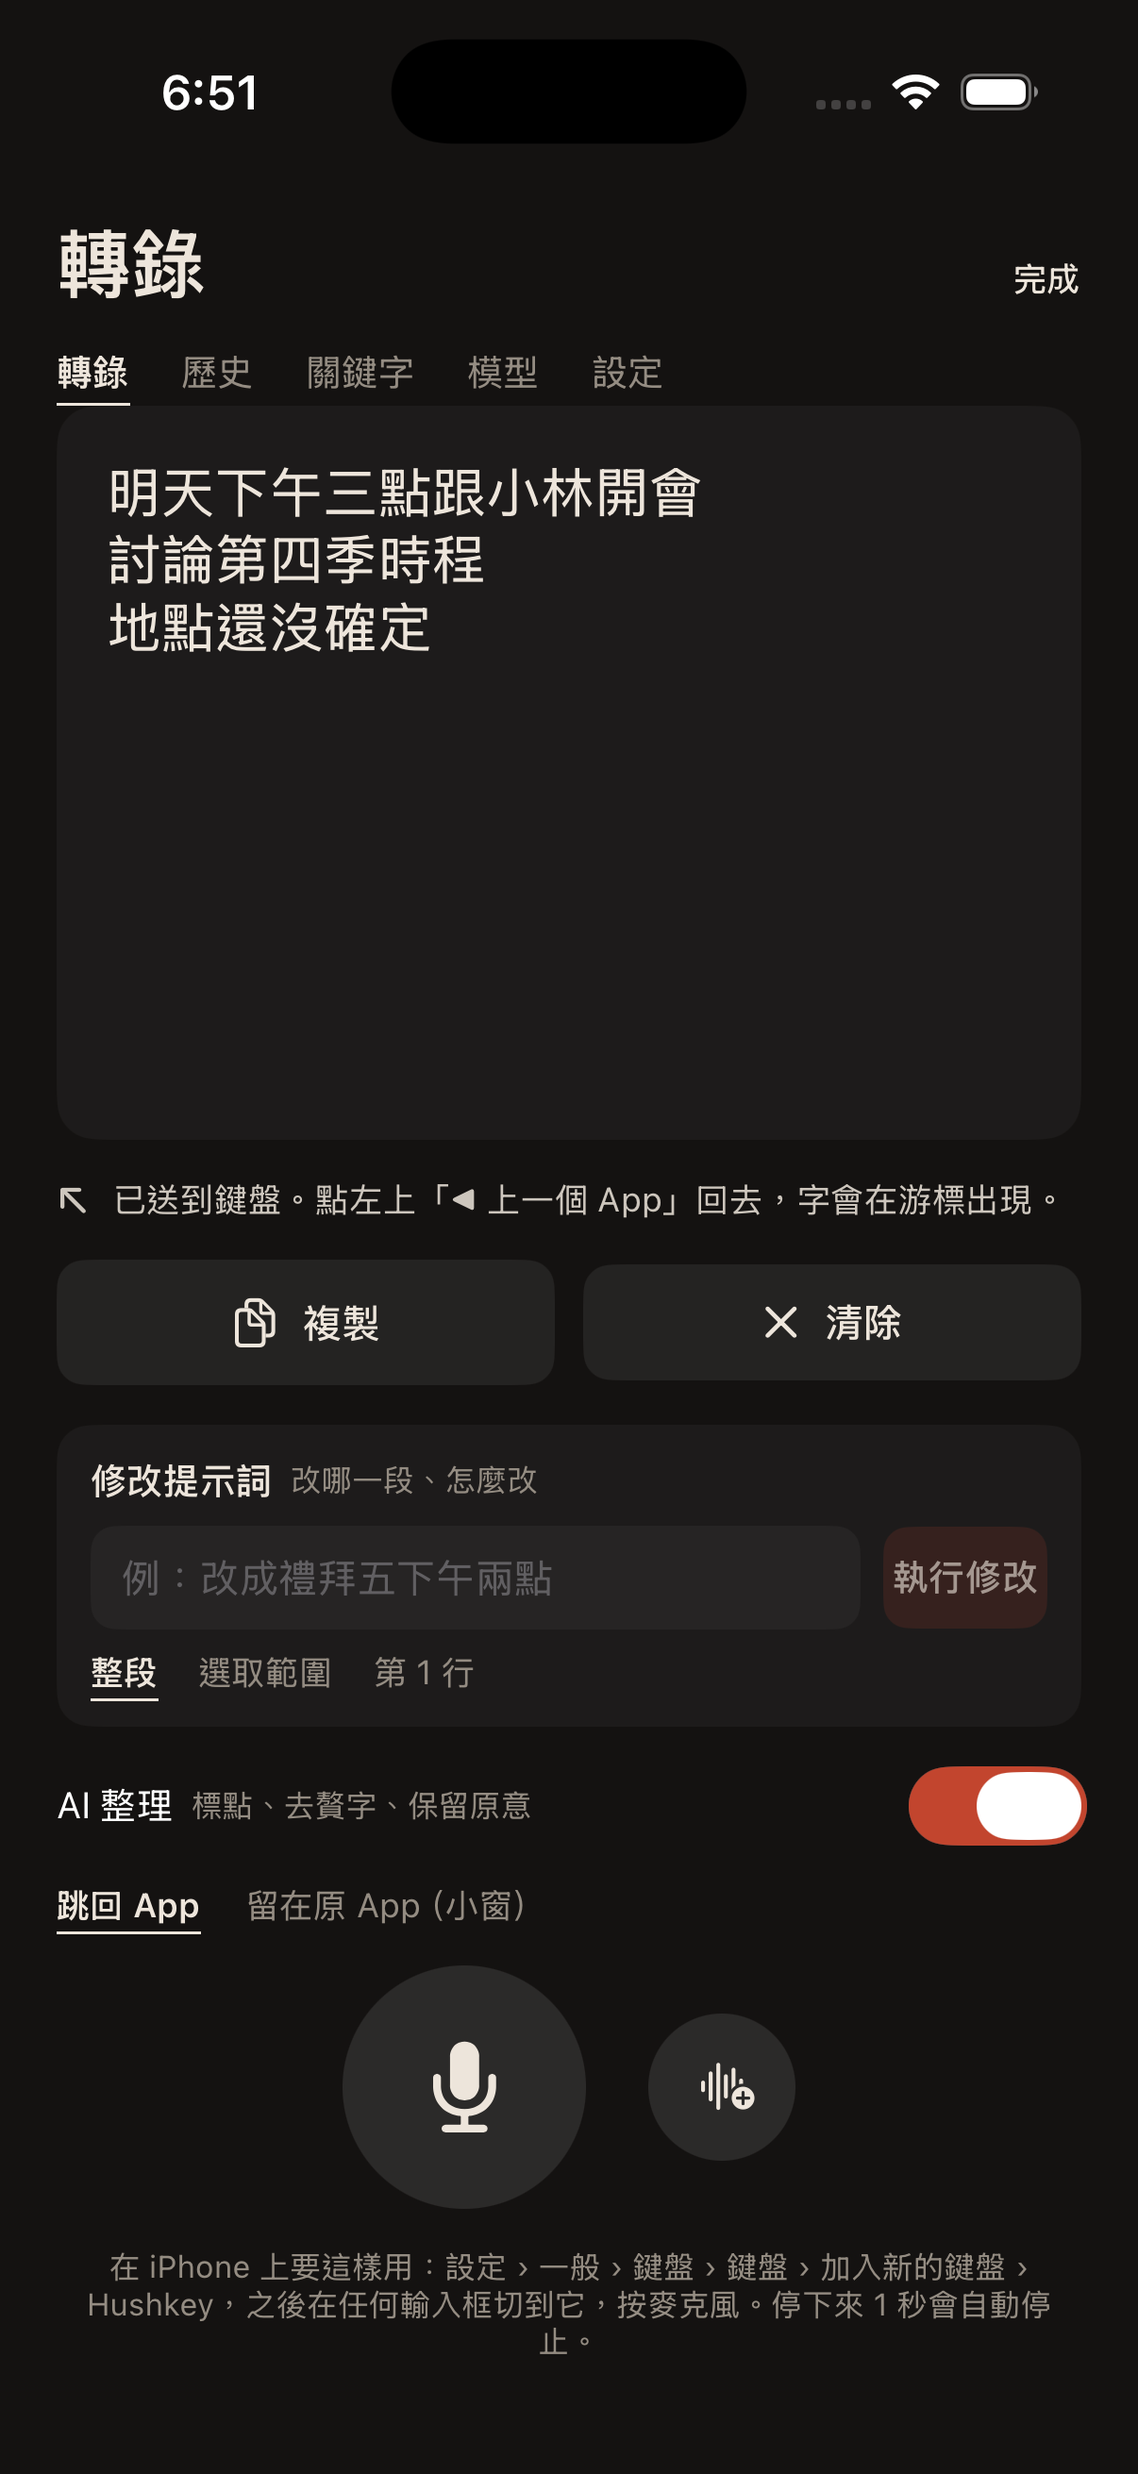
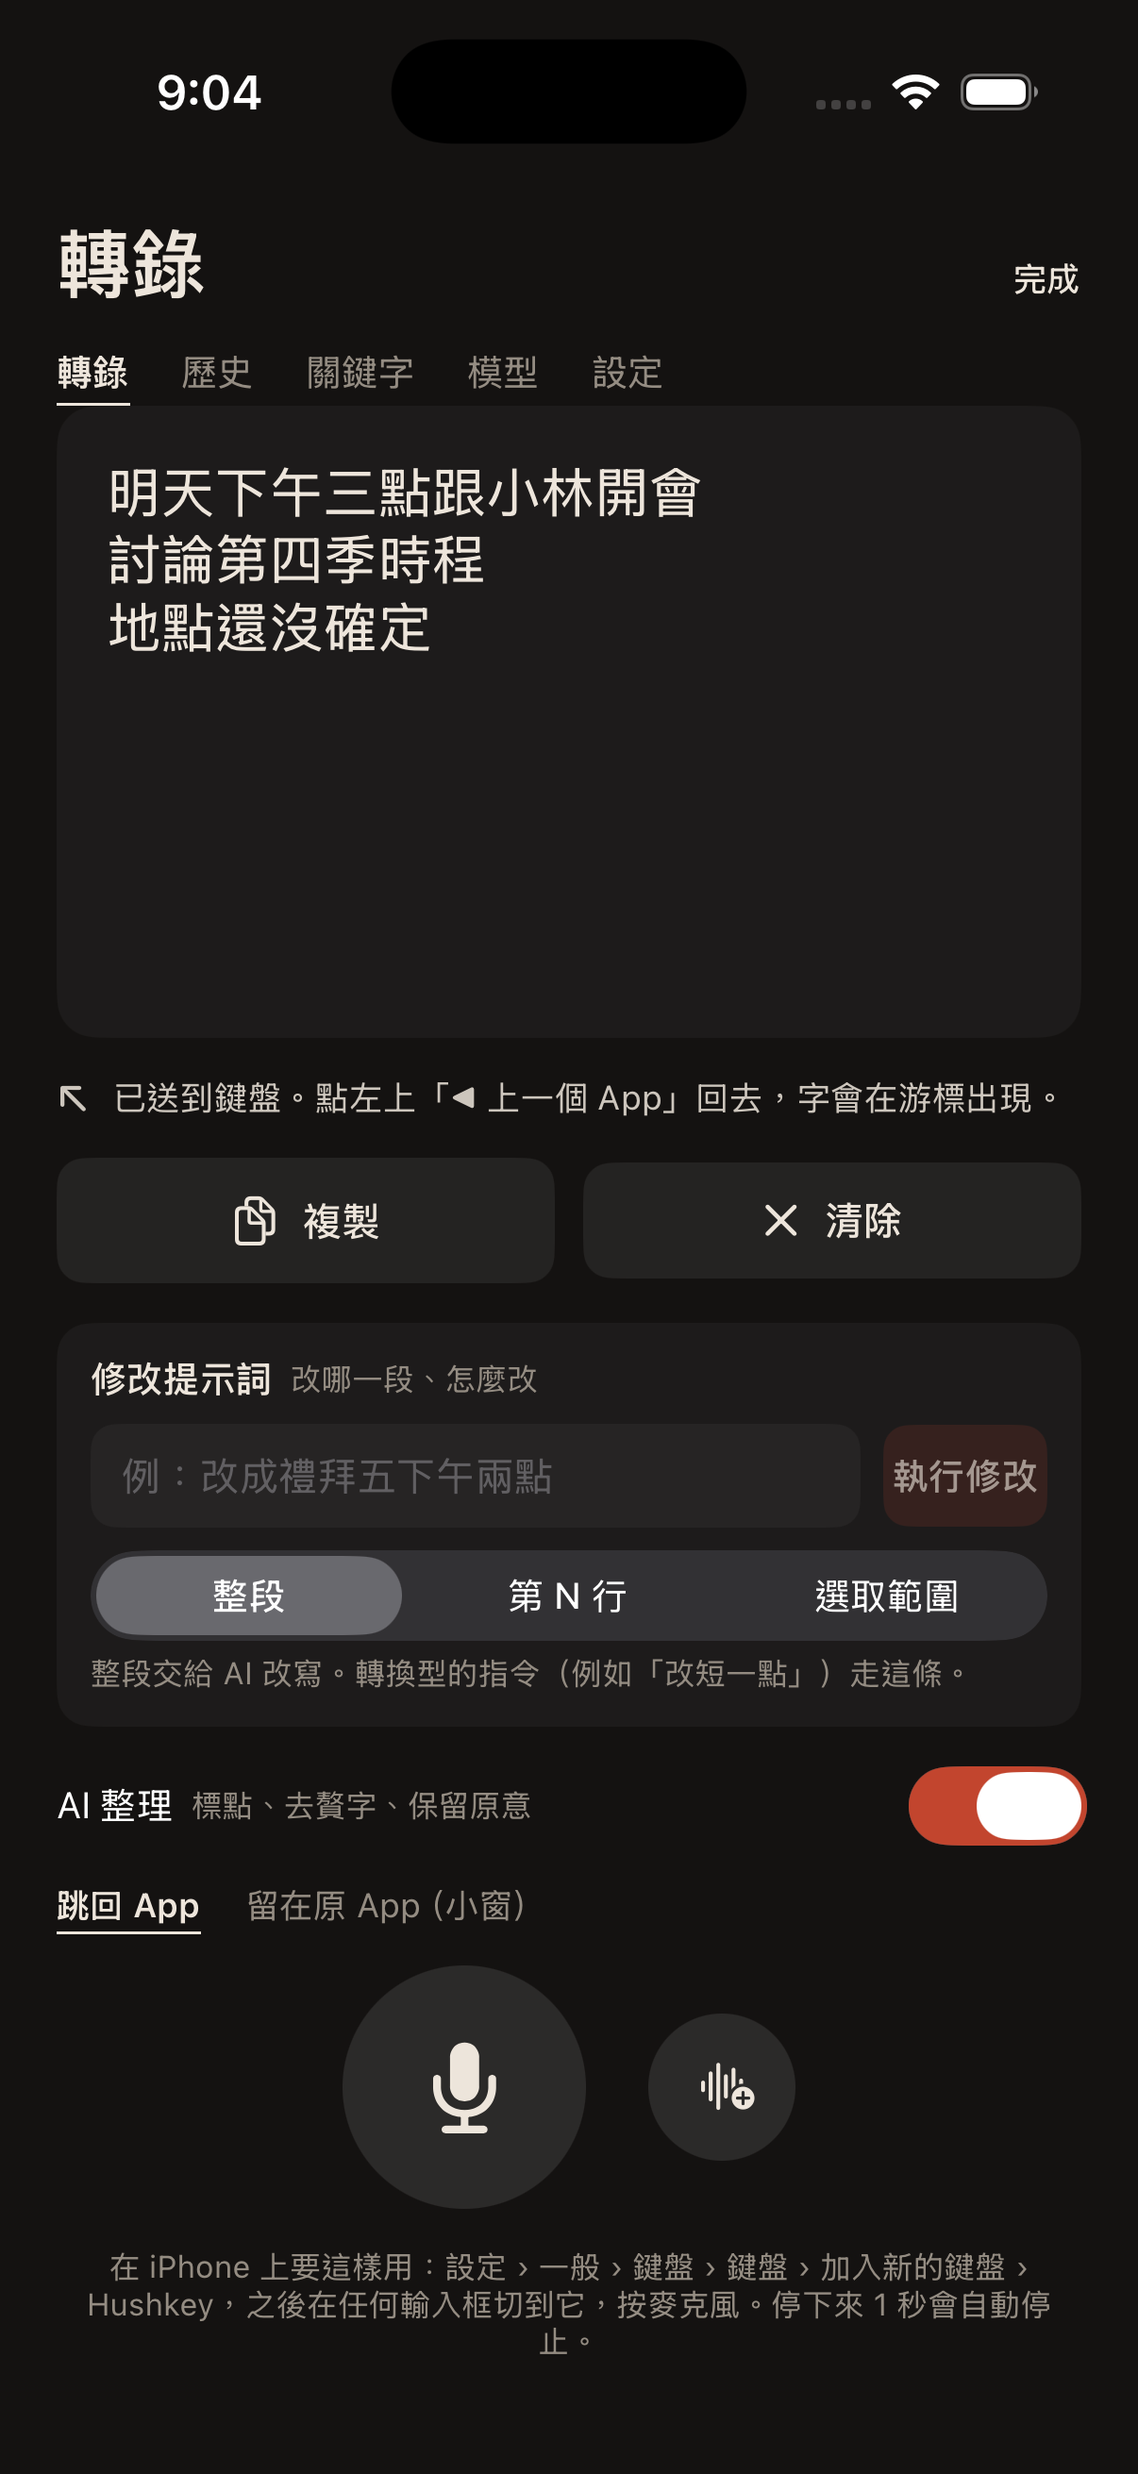
test(edit): 區域改 SegmentedControl，並把「不同區域→不同輸出」變成回歸案例
- 三段式 Picker（整段／第 N 行／選取範圍）；行號不進 selection 識別值，
  stepper 不會重建 picker。SelectableTranscript 拆成自己的檔案。
- edit_batch 支援 \n 轉義，多行原文才寫得進逐行的 TSV。
- tests/edit_expected.tsv 11 → 15 筆：同指令不同區域 2 筆、同區域不同指令 2 筆；
  verify.sh 的門檻改成 === 15/15 right。
- 實跑：=== 15/15 changed / === 15/15 right。

diff --git a/ios_app/Sources/App/PromptEditPanel.swift b/ios_app/Sources/App/PromptEditPanel.swift
@@ -1,99 +1,4 @@
 import SwiftUI
-import UIKit
-
-/// The 轉錄 page's transcript, made selectable so a region can be named.
-///
-/// SwiftUI's `Text` + `.textSelection(.enabled)` lets the user select and copy,
-/// but gives the app no way to read WHAT was selected -- and 「目前選取範圍」 is
-/// one of the three regions the 修改提示詞 button offers. A `UITextView` reports
-/// its range, so the region the user pointed at is the region the core is
-/// handed instead of a guess made from the whole sentence.
-///
-/// Not editable: the text on this page is the sentence the app produced. The
-/// user changes it with a 修改提示詞, which is the whole point of the panel
-/// below -- an editable field here would be a second, silent way to edit that
-/// bypasses the model and never reaches the history.
-struct SelectableTranscript: UIViewRepresentable {
-    let text: String
-    let placeholder: String
-    @Binding var selection: NSRange
-
-    func makeUIView(context: Context) -> GrowingTextView {
-        let view = GrowingTextView()
-        view.isEditable = false
-        view.isSelectable = true
-        view.isScrollEnabled = false
-        view.backgroundColor = .clear
-        view.textContainerInset = .zero
-        view.textContainer.lineFragmentPadding = 0
-        view.adjustsFontForContentSizeCategory = true
-        view.delegate = context.coordinator
-        view.setContentCompressionResistancePriority(.defaultLow, for: .horizontal)
-        return view
-    }
-
-    func updateUIView(_ view: GrowingTextView, context: Context) {
-        context.coordinator.parent = self
-        let shown = text.isEmpty ? placeholder : text
-        if view.text != shown {
-            view.text = shown
-            // The old range belongs to a sentence that is no longer there.
-            view.selectedRange = NSRange(location: 0, length: 0)
-            selection = view.selectedRange
-            view.invalidateIntrinsicContentSize()
-        }
-        view.font = Self.font
-        view.textColor = text.isEmpty ? UIColor(Palette.dim) : UIColor(Palette.ink)
-    }
-
-    func makeCoordinator() -> Coordinator { Coordinator(parent: self) }
-
-    /// The Mac's transcript face, one size down: serif, because the sentence is
-    /// something to read rather than a form field.
-    static let font: UIFont = {
-        let base = UIFont.systemFont(ofSize: 20)
-        guard let descriptor = base.fontDescriptor.withDesign(.serif) else { return base }
-        return UIFont(descriptor: descriptor, size: 20)
-    }()
-
-    final class Coordinator: NSObject, UITextViewDelegate {
-        var parent: SelectableTranscript
-
-        init(parent: SelectableTranscript) {
-            self.parent = parent
-        }
-
-        func textViewDidChangeSelection(_ textView: UITextView) {
-            // Reported on every caret move, so a tap that only places the caret
-            // (length 0) clears the region rather than leaving a stale one.
-            guard parent.selection != textView.selectedRange else { return }
-            parent.selection = textView.selectedRange
-        }
-    }
-}
-
-/// A `UITextView` that reports its own height.
-///
-/// `isScrollEnabled = false` alone does not give a usable intrinsic size inside
-/// a SwiftUI `ScrollView` on every iOS version; the width is only known after
-/// layout, so the size is recomputed when it changes.
-final class GrowingTextView: UITextView {
-    private var lastWidth: CGFloat = 0
-
-    override var intrinsicContentSize: CGSize {
-        let width = bounds.width > 0 ? bounds.width : UIScreen.main.bounds.width
-        let fitted = sizeThatFits(CGSize(width: width, height: .greatestFiniteMagnitude))
-        return CGSize(width: UIView.noIntrinsicMetric, height: ceil(fitted.height))
-    }
-
-    override func layoutSubviews() {
-        super.layoutSubviews()
-        if abs(bounds.width - lastWidth) > 0.5 {
-            lastWidth = bounds.width
-            invalidateIntrinsicContentSize()
-        }
-    }
-}
 
 /// The 修改提示詞 panel: the instruction, the region, and one button.
 ///
@@ -111,11 +16,25 @@ struct PromptEditPanel: View {
 
     @StateObject private var runner = PromptEditRunner()
     @State private var instruction = ""
-    @State private var region: PromptEditRegion = .whole
+    @State private var kind: RegionKind = .whole
     @State private var line = 1
     @State private var result: String?
 
     private var lines: [String] { PromptEdit.lines(of: text) }
+
+    /// The three segments. The line number rides beside this, not inside it.
+    private enum RegionKind: Hashable { case whole, line, selection }
+
+    /// What is handed to the core. The line case clamps, so a stepper that ran
+    /// past the end can never produce a "第 9 行" for a three-line sentence --
+    /// which the core would read as a position it cannot find.
+    private var region: PromptEditRegion {
+        switch kind {
+        case .whole: return .whole
+        case .line: return .line(max(1, min(line, max(1, lines.count))))
+        case .selection: return .selection
+        }
+    }
 
     var body: some View {
         VStack(alignment: .leading, spacing: 8) {
@@ -188,21 +107,33 @@ struct PromptEditPanel: View {
             // meaningless. The instruction is the user's and stays.
             line = 1
             result = nil
-            if region == .selection { region = .whole }
+            if kind == .selection { kind = .whole }
         }
     }
 
-    /// 整段 / 選取範圍 / 第 N 行, as flat words with the current one underlined --
-    /// the same shape as the mode switch, rather than a third kind of control on
-    /// one screen.
+    /// 整段 / 第 N 行 / 選取範圍, as a segmented control.
+    ///
+    /// A `Picker` rather than three custom buttons: these are mutually exclusive
+    /// options, which is what the control means. The line number is deliberately
+    /// NOT part of the selection's identity -- otherwise every step of the
+    /// stepper would rebuild the picker and the segment would flicker.
     private var regionPicker: some View {
         VStack(alignment: .leading, spacing: 6) {
-            HStack(spacing: 14) {
-                regionButton(.whole)
-                regionButton(.selection)
-                regionButton(.line(max(1, min(line, max(1, lines.count)))))
+            Picker("區域", selection: $kind) {
+                Text("整段").tag(RegionKind.whole)
+                Text("第 N 行").tag(RegionKind.line)
+                Text("選取範圍").tag(RegionKind.selection)
             }
-            if case .line = region {
+            .pickerStyle(.segmented)
+            .labelsHidden()
+
+            switch kind {
+            case .whole:
+                Text("整段交給 AI 改寫。轉換型的指令（例如「改短一點」）走這條。")
+                    .font(.system(size: 11))
+                    .foregroundStyle(Palette.dim)
+                    .fixedSize(horizontal: false, vertical: true)
+            case .line:
                 HStack(spacing: 10) {
                     stepButton("minus") { line = max(1, line - 1) }
                     Text(linePreview)
@@ -212,43 +143,14 @@ struct PromptEditPanel: View {
                         .frame(maxWidth: .infinity, alignment: .leading)
                     stepButton("plus") { line = min(max(1, lines.count), line + 1) }
                 }
-            } else if region == .selection {
+            case .selection:
                 Text(selectionText)
                     .font(.system(size: 11))
                     .foregroundStyle(Palette.dim)
-                    .lineLimit(1)
+                    .lineLimit(2)
                     .fixedSize(horizontal: false, vertical: true)
             }
         }
-    }
-
-    private func regionButton(_ target: PromptEditRegion) -> some View {
-        // The line button carries the live number, so its identity changes as
-        // the stepper moves; comparing by case keeps the underline steady.
-        let active: Bool
-        switch (region, target) {
-        case (.whole, .whole), (.selection, .selection): active = true
-        case (.line, .line): active = true
-        default: active = false
-        }
-        return Button {
-            switch target {
-            case .whole: region = .whole
-            case .selection: region = .selection
-            case .line: region = .line(max(1, min(line, max(1, lines.count))))
-            }
-        } label: {
-            Text(target.title)
-                .font(.system(size: 12, weight: active ? .semibold : .regular))
-                .foregroundStyle(active ? Palette.ink : Palette.dim)
-                .overlay(alignment: .bottom) {
-                    Rectangle()
-                        .fill(active ? Palette.ink : .clear)
-                        .frame(height: 1)
-                        .offset(y: 3)
-                }
-        }
-        .buttonStyle(.plain)
     }
 
     private func stepButton(_ symbol: String, _ action: @escaping () -> Void) -> some View {

diff --git a/ios_app/Sources/App/SelectableTranscript.swift b/ios_app/Sources/App/SelectableTranscript.swift
@@ -1,0 +1,97 @@
+import SwiftUI
+import UIKit
+
+/// The 轉錄 page's transcript, made selectable so a region can be named.
+///
+/// SwiftUI's `Text` + `.textSelection(.enabled)` lets the user select and copy,
+/// but gives the app no way to read WHAT was selected -- and 「目前選取範圍」 is
+/// one of the three regions the 修改提示詞 button offers. A `UITextView` reports
+/// its range, so the region the user pointed at is the region the core is
+/// handed instead of a guess made from the whole sentence.
+///
+/// Not editable: the text on this page is the sentence the app produced. The
+/// user changes it with a 修改提示詞, which is the whole point of the panel
+/// below -- an editable field here would be a second, silent way to edit that
+/// bypasses the model and never reaches the history.
+struct SelectableTranscript: UIViewRepresentable {
+    let text: String
+    let placeholder: String
+    @Binding var selection: NSRange
+
+    func makeUIView(context: Context) -> GrowingTextView {
+        let view = GrowingTextView()
+        view.isEditable = false
+        view.isSelectable = true
+        view.isScrollEnabled = false
+        view.backgroundColor = .clear
+        view.textContainerInset = .zero
+        view.textContainer.lineFragmentPadding = 0
+        view.adjustsFontForContentSizeCategory = true
+        view.delegate = context.coordinator
+        view.setContentCompressionResistancePriority(.defaultLow, for: .horizontal)
+        return view
+    }
+
+    func updateUIView(_ view: GrowingTextView, context: Context) {
+        context.coordinator.parent = self
+        let shown = text.isEmpty ? placeholder : text
+        if view.text != shown {
+            view.text = shown
+            // The old range belongs to a sentence that is no longer there.
+            view.selectedRange = NSRange(location: 0, length: 0)
+            selection = view.selectedRange
+            view.invalidateIntrinsicContentSize()
+        }
+        view.font = Self.font
+        view.textColor = text.isEmpty ? UIColor(Palette.dim) : UIColor(Palette.ink)
+    }
+
+    func makeCoordinator() -> Coordinator { Coordinator(parent: self) }
+
+    /// The Mac's transcript face, one size down: serif, because the sentence is
+    /// something to read rather than a form field.
+    static let font: UIFont = {
+        let base = UIFont.systemFont(ofSize: 20)
+        guard let descriptor = base.fontDescriptor.withDesign(.serif) else { return base }
+        return UIFont(descriptor: descriptor, size: 20)
+    }()
+
+    final class Coordinator: NSObject, UITextViewDelegate {
+        var parent: SelectableTranscript
+
+        init(parent: SelectableTranscript) {
+            self.parent = parent
+        }
+
+        func textViewDidChangeSelection(_ textView: UITextView) {
+            // Reported on every caret move, so a tap that only places the caret
+            // (length 0) clears the region rather than leaving a stale one.
+            guard parent.selection != textView.selectedRange else { return }
+            parent.selection = textView.selectedRange
+        }
+    }
+}
+
+/// A `UITextView` that reports its own height.
+///
+/// `isScrollEnabled = false` alone does not give a usable intrinsic size inside
+/// a SwiftUI `ScrollView` on every iOS version; the width is only known after
+/// layout, so the size is recomputed when it changes.
+final class GrowingTextView: UITextView {
+    private var lastWidth: CGFloat = 0
+
+    override var intrinsicContentSize: CGSize {
+        let width = bounds.width > 0 ? bounds.width : UIScreen.main.bounds.width
+        let fitted = sizeThatFits(CGSize(width: width, height: .greatestFiniteMagnitude))
+        return CGSize(width: UIView.noIntrinsicMetric, height: ceil(fitted.height))
+    }
+
+    override func layoutSubviews() {
+        super.layoutSubviews()
+        if abs(bounds.width - lastWidth) > 0.5 {
+            lastWidth = bounds.width
+            invalidateIntrinsicContentSize()
+        }
+    }
+}
+

diff --git a/core_engine/examples/edit_batch.rs b/core_engine/examples/edit_batch.rs
@@ -3,7 +3,9 @@
 //!
 //! Usage: edit_batch <cases-file>
 //! The file holds one case per line: `<instruction>\t<draft>` -- a tab between
-//! the two, the draft may contain spaces and commas. Each line prints the
+//! the two, the draft may contain spaces and commas. A case that is about a
+//! MULTI-LINE draft writes `\n` for its line breaks: the file is line-oriented,
+//! so a literal newline would end the case. Each line prints the
 //! instruction, the draft, the raw answer, and whether the answer differs from
 //! the draft.
 //!
@@ -33,6 +35,12 @@ fn main() {
     // `<instruction>\t<draft>\t<expected>`. The columns are split off the
     // TABS, not on a whitespace boundary: the draft is Chinese prose and may
     // contain spaces, and the expected answer may too.
+    // `\n` is the only escape: a multi-line draft is the whole point of the
+    // line/region cases, and a real newline would split the row.
+    fn unescape(s: &str) -> String {
+        s.replace("\\n", "\n")
+    }
+
     let mut cases: Vec<(String, String, Option<String>)> = Vec::new();
     for line in body.lines() {
         if line.trim().is_empty() {
@@ -43,8 +51,8 @@ fn main() {
         let Some(draft) = parts.next() else { continue };
         cases.push((
             instruction.trim().to_string(),
-            draft.trim().to_string(),
-            parts.next().map(|e| e.trim().to_string()),
+            unescape(draft.trim()),
+            parts.next().map(|e| unescape(e.trim())),
         ));
     }
     if cases.is_empty() {
@@ -89,7 +97,7 @@ fn main() {
                     }
                 }
                 println!("--- {instruction}");
-                println!("  draft:  {draft}");
+                println!("  draft:  {}", draft.replace('\n', " | "));
                 println!("  answer: {}", answer.trim().replace('\n', " | "));
                 println!("  changed: {}", if differs { "YES" } else { "no" });
                 println!("  verdict: {verdict}");

diff --git a/docs/milestones.md b/docs/milestones.md
@@ -1247,3 +1247,27 @@ sim:    platform IOSSIMULATOR   minos 17.0
 device: platform IOS            minos 17.0
 shim:   platform IOS            minos 17.0
 ```
+
+### I.8 區域改成 SegmentedControl，並把「不同區域→不同輸出」變成回歸測試
+
+三段的選擇用 `Picker(.segmented)`（整段／第 N 行／選取範圍）；行號不進 selection 的
+識別值，否則 stepper 每按一下整個 picker 會重建。`SelectableTranscript` 也從
+`PromptEditPanel.swift` 拆成自己的檔案。
+
+`tests/edit_expected.tsv` 從 11 筆增加到 15 筆，新增的 4 筆是多行原文：
+
+```text
+第1點改成大衛拜訪   → 大衛拜訪 | 討論第四季時程 | 地點還沒確定
+第3點改成大衛拜訪   → 明天下午三點跟小林開會 | 討論第四季時程 | 大衛拜訪
+第2點改短一點       → 明天下午三點跟小林開會 | 討論第四季 | 地點還沒確定
+第2點刪掉           → 明天下午三點跟小林開會 | 地點還沒確定
+```
+
+前兩筆是「同一個指令、不同區域」，後兩筆是「同一個區域、不同指令」——這正是
+`scripts/verify.sh` 現在會擋的兩件事（`=== 15/15 right`）。TSV 是逐行的，所以
+`edit_batch` 新增 `\n` 轉義，多行原文才寫得進一列。
+
+```text
+=== 15/15 changed
+=== 15/15 right
+```
